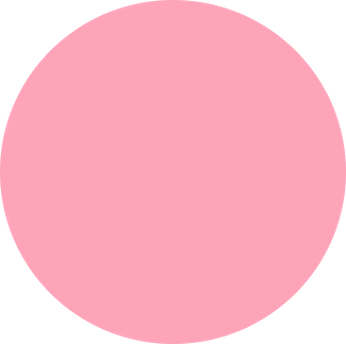
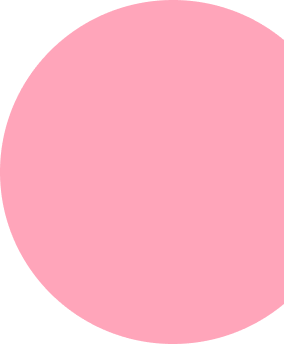
hero mobile update

diff --git a/src/partials/hero.html b/src/partials/hero.html
@@ -1,35 +1,98 @@
 <section class="hero">
   <div class="container">
-    <h1 class="hero__title">Ice cream made with passion</h1>
+    <h1 class="hero__title"><span class="hero__title-white">Ice cream made with</span>passion</h1>
     <ul class="list">
       <li><a class="link-style" href="#products">Products</a></li>
       <li><a class="link-style" href="#made">How it's made?</a></li>
     </ul>
-    <p>
+    <p class="hero__description">
       Lorem ipsum dolor sit amet, consectetur adipiscing elit, sed do eiusmod tempor incididunt ut
       labore et
     </p>
-    <button type="button">Тут будет стрелка</button>
-    <ul>
-      <li>
-        <picture>
-          <source
-            srcset="
-              images/desktop/slider-pic41-293x232.png    1x,
-              images/desktop/slider-pic41-293x232@2x.png 2x
-            "
-            media="(min-width: 1200px)"
-          />
-          <source
-            srcset="
-              images/tablet/slider-pic41-168x133.png    1x,
-              images/tablet/slider-pic41-168x133@2x.png 2x
-            "
-            media="(min-width: 768px)"
-          />
-          <img src="images/desktop/slider-pic41-293x232.png" alt="девушка с мороженным" />
-        </picture>
-      </li>
-    </ul>
+    <button class="hero__button-description" type="button">Тут будет стрелка</button>
+    <picture class="hero__picture-milk">
+      <source
+        srcset="
+          images/desktop/slider-pic51-188x191.png    1x,
+          images/desktop/slider-pic51-188x191@2x.png 2x
+        "
+        media="(min-width: 1200px)"
+      />
+      <source
+        srcset="
+          images/tablet/slider-pic51-124x126.png    1x,
+          images/tablet/slider-pic51-124x126@2x.png 2x
+        "
+        media="(min-width: 768px)"
+      />
+      <img src="images/tablet/slider-pic51-124x126.png" alt="milk" />
+    </picture>
+    <picture class="hero__picture-elipce">
+      <source
+        srcset="
+          images/desktop/ellipse-hero-538x538.png    1x,
+          images/desktop/ellipse-hero-538x538@2x.png 2x
+        "
+        media="(min-width: 1200px)"
+      />
+      <source
+        srcset="
+          images/tablet/ellipse-hero-324x324.png    1x,
+          images/tablet/ellipse-hero-324x324@2x.png 2x
+        "
+        media="(min-width: 768px)"
+      />
+      <source
+        srcset="
+          images/mobile/ellipse-hero-346x344.png    1x,
+          images/mobile/ellipse-hero-346x344@2x.png 2x
+        "
+        media="(min-width: 480px)"
+      />
+      <img src="images/mobile/ellipse-hero-346x344.png" alt="background-image elipce" />
+    </picture>
+
+    <picture class="hero__picture-icecream">
+      <source
+        srcset="
+          images/desktop/slider-pic71-236x557.png    1x,
+          images/desktop/slider-pic71-236x557@2x.png 2x
+        "
+        media="(min-width: 1200px)"
+      />
+      <source
+        srcset="
+          images/tablet/slider-pic71-143x336.png    1x,
+          images/tablet/slider-pic71-143x336@2x.png 2x
+        "
+        media="(min-width: 768px)"
+      />
+      <source
+        srcset="
+          images/mobile/slider-pic71-171x410.png    1x,
+          images/mobile/slider-pic71-171x410@2x.png 2x
+        "
+        media="(min-width: 480px)"
+      />
+      <img src="images/mobile/slider-pic71-171x410.png" alt="ice-cream" />
+    </picture>
+
+    <picture class="hero__picture-girl">
+      <source
+        srcset="
+          images/desktop/slider-pic41-293x232.png    1x,
+          images/desktop/slider-pic41-293x232@2x.png 2x
+        "
+        media="(min-width: 1200px)"
+      />
+      <source
+        srcset="
+          images/tablet/slider-pic41-168x133.png    1x,
+          images/tablet/slider-pic41-168x133@2x.png 2x
+        "
+        media="(min-width: 768px)"
+      />
+      <img src="images/tablet/slider-pic41-168x133.png" alt="the girl with an ice-cream" />
+    </picture>
   </div>
 </section>

diff --git a/src/sass/layout/_hero.scss b/src/sass/layout/_hero.scss
@@ -1,3 +1,36 @@
 .hero {
   background-color: #ffb8ca;
 }
+
+@media screen and (max-width: 767px) {
+  .hero__picture-girl,
+  .hero__picture-milk,
+  .hero__description,
+  .hero__button-description {
+    display: none;
+  }
+
+  .hero {
+    max-width: 480px;
+  }
+
+  .hero__title {
+    font-family: $secondary-font;
+    font-weight: 400;
+    font-size: 48px;
+    line-height: 0.96;
+    letter-spacing: 0.04em;
+    text-transform: uppercase;
+    color: #d41443;
+  }
+
+  .hero__title-white {
+    font-family: $secondary-font;
+    font-weight: 400;
+    font-size: 26px;
+    line-height: 1.16;
+    letter-spacing: 0.04em;
+    text-transform: uppercase;
+    color: #ffffff;
+  }
+}
